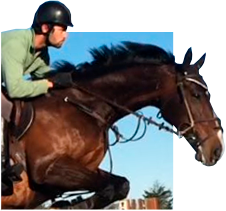
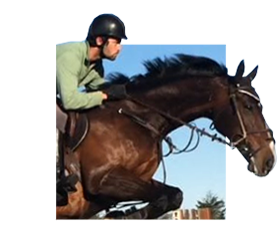
replaced horse photos for centered ones

diff --git a/index.html b/index.html
@@ -68,7 +68,7 @@
     -->
   <section id="Criterios" data-emergence="hidden">
     <h2 class="fade-in">Criterios de selección</h2>
-    <div class="fade-in delay-1">      
+    <div class="fade-in delay-1">
       <ul class="slider">
         <li>
           <img src="./img/criterios/condicion.png" alt="Buena conformación física">
@@ -109,8 +109,8 @@
     <div class="fade-in delay-1">
       <ul class="slider">
         <li>
-          <img class="name" src="./img/caballos/1-Curtis-Blue.svg" alt="E.M. Curtís Blue" style="bottom: 95%">
-          <img class="photo" src="./img/caballos/curtis.png" alt="foto de E.M. Curtís Blue">
+          <img class="name" src="./img/caballos/1-Curtis-Blue.svg" alt="E.M. Curtís Blue" style="bottom: 90%">
+          <img class="photo" src="./img/caballos/Curtis-Blue.png" alt="foto de E.M. Curtís Blue">
           <p class="sans">Nombre: E.M. Curtís Blue <br>
             Edad: 9 años <br>
             Sexo: Macho <br>
@@ -122,7 +122,7 @@
         </li>
         <li>
           <img class="name" src="./img/caballos/2-Rey-Momo.svg" alt="E.M. Rey Momolt=">
-          <img class="photo" src="./img/caballos/momo.png" alt="foto de E.M. Rey Momo" style="transform: translate(-11%,-10%)">
+          <img class="photo" src="./img/caballos/Rey-Momo.png" alt="foto de E.M. Rey Momo">
           <p class="sans">Nombre: E.M. Rey Momo <br>
             Edad: 10 años <br>
             Sexo: Macho <br>
@@ -134,7 +134,7 @@
         </li>
         <li>
           <img class="name" src="./img/caballos/3-Blue-Sea.svg" alt="E.M. Blue Sea">
-          <img class="photo" src="./img/caballos/bluesea.png" alt="foto de E.M. Blue Sea" style="transform: translate(0,-7%)">
+          <img class="photo" src="./img/caballos/Blue-Sea.png" alt="foto de E.M. Blue Sea">
           <p class="sans">Nombre: E.M. Blue Sea <br>
             Edad: 10 años <br>
             Sexo: Macho <br>
@@ -146,7 +146,7 @@
         </li>
         <li>
           <img class="name" src="./img/caballos/4-Dulcinea.svg" alt="E.M. Dulcinea">
-          <img class="photo" src="./img/caballos/dulcinea.png" alt="foto de E.M. Dulcinea" style="transform: translate(0,-7%)">
+          <img class="photo" src="./img/caballos/Dulcinea.png" alt="foto de E.M. Dulcinea">
           <p class="sans">Nombre: E.M. Dulcinea <br>
             Edad: 9 años <br>
             Sexo: Hembra <br>
@@ -158,7 +158,7 @@
         </li>
         <li>
           <img class="name" src="./img/caballos/5-Valentina.svg" alt="E.M. Valentina">
-          <img class="photo" src="./img/caballos/valentina.png" alt="foto de E.M. Valentina" style="transform: translate(-23%,3%)">
+          <img class="photo" src="./img/caballos/Valentina.png" alt="foto de E.M. Valentina">
           <p class="sans">Nombre: E.M. Valentina <br>
             Edad: ? <br>
             Sexo: Hembra <br>
@@ -167,7 +167,7 @@
         </li>
         <li>
           <img class="name" src="./img/caballos/6-Reina-do-carnaval.svg" alt="E.M. R. Do Carnaval">
-          <img class="photo" src="./img/caballos/reina.png" alt="foto de E.M. R. Do Carnaval" style="transform: translate(0,-7%)">
+          <img class="photo" src="./img/caballos/Reina-do-carnaval.png" alt="foto de E.M. R. Do Carnaval">
           <p class="sans">Nombre: E.M. R. Do Carnaval <br>
             Edad: 9 Años <br>
             Sexo: Hembra <br>
@@ -178,7 +178,7 @@
         </li>
         <li>
           <img class="name" src="./img/caballos/7-Alisson.svg" alt="E.M. Alisson">
-          <img class="photo" src="./img/caballos/alisson.png" alt="foto de E.M. Alisson" style="transform: translate(-10%,-7%);">
+          <img class="photo" src="./img/caballos/Allison.png" alt="foto de E.M. Alisson">
           <p class="sans">Nombre: E.M. Alisson <br>
             Edad: 10 Años <br>
             Sexo: Hembra Alazán <br>
@@ -189,7 +189,7 @@
         </li>
         <li>
           <img class="name" src="./img/caballos/8-LanzaPerfume.svg" alt="E.M. Lanza Perfume">
-          <img class="photo" src="./img/caballos/lanzaperfume.png" alt="foto de E.M. Lanza Perfume" style="transform: translate(0,9%)">
+          <img class="photo" src="./img/caballos/Dulce-Perfume.png" alt="foto de E.M. Lanza Perfume">
           <p class="sans">Nombre: E.M. Lanza Perfume <br>
             Edad: 5 Años <br>
             Sexo: Hembra <br>
@@ -199,7 +199,7 @@
         </li>
         <li>
           <img class="name" src="./img/caballos/9-Mamura.svg" alt="E.M. Mamurá">
-          <img class="photo" src="./img/caballos/mamura.png" alt="foto de E.M. Mamurá" style="transform: translate(0,-4%)">
+          <img class="photo" src="./img/caballos/Mamura.png" alt="foto de E.M. Mamurá">
           <p class="sans">Nombre: E.M. Mamurá <br>
             Edad: ? <br>
             Sexo: ? <br>
@@ -222,7 +222,7 @@
     </div>
     <div class="fade-in delay-2">
       <ul id="Imagenes" class="slider">
-        
+
         <li>
           <a onclick="openImage(this);return false" href="#"><img src="./img/uploads/6b5c9185-976b-41ce-8703-98a53a6aaa4e.jpg" alt="Caballo Saltando"></a>
         </li>
@@ -243,7 +243,7 @@
         </li>
       </ul>
       <ul id="Videos" class="slider">
-        
+
         <li>
           <a onclick="openVideo('Cjzb6VKYHi8');return false" href="#"><img src="https://img.youtube.com/vi/Cjzb6VKYHi8/mqdefault.jpg" alt="Curtis Blue"></a>
         </li>

diff --git a/index.template.html b/index.template.html
@@ -68,7 +68,7 @@
     -->
   <section id="Criterios" data-emergence="hidden">
     <h2 class="fade-in">Criterios de selección</h2>
-    <div class="fade-in delay-1">      
+    <div class="fade-in delay-1">
       <ul class="slider">
         <li>
           <img src="./img/criterios/condicion.png" alt="Buena conformación física">
@@ -109,8 +109,8 @@
     <div class="fade-in delay-1">
       <ul class="slider">
         <li>
-          <img class="name" src="./img/caballos/1-Curtis-Blue.svg" alt="E.M. Curtís Blue" style="bottom: 95%">
-          <img class="photo" src="./img/caballos/curtis.png" alt="foto de E.M. Curtís Blue">
+          <img class="name" src="./img/caballos/1-Curtis-Blue.svg" alt="E.M. Curtís Blue" style="bottom: 90%">
+          <img class="photo" src="./img/caballos/Curtis-Blue.png" alt="foto de E.M. Curtís Blue">
           <p class="sans">Nombre: E.M. Curtís Blue <br>
             Edad: 9 años <br>
             Sexo: Macho <br>
@@ -122,7 +122,7 @@
         </li>
         <li>
           <img class="name" src="./img/caballos/2-Rey-Momo.svg" alt="E.M. Rey Momolt=">
-          <img class="photo" src="./img/caballos/momo.png" alt="foto de E.M. Rey Momo" style="transform: translate(-11%,-10%)">
+          <img class="photo" src="./img/caballos/Rey-Momo.png" alt="foto de E.M. Rey Momo">
           <p class="sans">Nombre: E.M. Rey Momo <br>
             Edad: 10 años <br>
             Sexo: Macho <br>
@@ -134,7 +134,7 @@
         </li>
         <li>
           <img class="name" src="./img/caballos/3-Blue-Sea.svg" alt="E.M. Blue Sea">
-          <img class="photo" src="./img/caballos/bluesea.png" alt="foto de E.M. Blue Sea" style="transform: translate(0,-7%)">
+          <img class="photo" src="./img/caballos/Blue-Sea.png" alt="foto de E.M. Blue Sea">
           <p class="sans">Nombre: E.M. Blue Sea <br>
             Edad: 10 años <br>
             Sexo: Macho <br>
@@ -146,7 +146,7 @@
         </li>
         <li>
           <img class="name" src="./img/caballos/4-Dulcinea.svg" alt="E.M. Dulcinea">
-          <img class="photo" src="./img/caballos/dulcinea.png" alt="foto de E.M. Dulcinea" style="transform: translate(0,-7%)">
+          <img class="photo" src="./img/caballos/Dulcinea.png" alt="foto de E.M. Dulcinea">
           <p class="sans">Nombre: E.M. Dulcinea <br>
             Edad: 9 años <br>
             Sexo: Hembra <br>
@@ -158,7 +158,7 @@
         </li>
         <li>
           <img class="name" src="./img/caballos/5-Valentina.svg" alt="E.M. Valentina">
-          <img class="photo" src="./img/caballos/valentina.png" alt="foto de E.M. Valentina" style="transform: translate(-23%,3%)">
+          <img class="photo" src="./img/caballos/Valentina.png" alt="foto de E.M. Valentina">
           <p class="sans">Nombre: E.M. Valentina <br>
             Edad: ? <br>
             Sexo: Hembra <br>
@@ -167,7 +167,7 @@
         </li>
         <li>
           <img class="name" src="./img/caballos/6-Reina-do-carnaval.svg" alt="E.M. R. Do Carnaval">
-          <img class="photo" src="./img/caballos/reina.png" alt="foto de E.M. R. Do Carnaval" style="transform: translate(0,-7%)">
+          <img class="photo" src="./img/caballos/Reina-do-carnaval.png" alt="foto de E.M. R. Do Carnaval">
           <p class="sans">Nombre: E.M. R. Do Carnaval <br>
             Edad: 9 Años <br>
             Sexo: Hembra <br>
@@ -178,7 +178,7 @@
         </li>
         <li>
           <img class="name" src="./img/caballos/7-Alisson.svg" alt="E.M. Alisson">
-          <img class="photo" src="./img/caballos/alisson.png" alt="foto de E.M. Alisson" style="transform: translate(-10%,-7%);">
+          <img class="photo" src="./img/caballos/Allison.png" alt="foto de E.M. Alisson">
           <p class="sans">Nombre: E.M. Alisson <br>
             Edad: 10 Años <br>
             Sexo: Hembra Alazán <br>
@@ -189,7 +189,7 @@
         </li>
         <li>
           <img class="name" src="./img/caballos/8-LanzaPerfume.svg" alt="E.M. Lanza Perfume">
-          <img class="photo" src="./img/caballos/lanzaperfume.png" alt="foto de E.M. Lanza Perfume" style="transform: translate(0,9%)">
+          <img class="photo" src="./img/caballos/Dulce-Perfume.png" alt="foto de E.M. Lanza Perfume">
           <p class="sans">Nombre: E.M. Lanza Perfume <br>
             Edad: 5 Años <br>
             Sexo: Hembra <br>
@@ -199,7 +199,7 @@
         </li>
         <li>
           <img class="name" src="./img/caballos/9-Mamura.svg" alt="E.M. Mamurá">
-          <img class="photo" src="./img/caballos/mamura.png" alt="foto de E.M. Mamurá" style="transform: translate(0,-4%)">
+          <img class="photo" src="./img/caballos/Mamura.png" alt="foto de E.M. Mamurá">
           <p class="sans">Nombre: E.M. Mamurá <br>
             Edad: ? <br>
             Sexo: ? <br>

diff --git a/js/index.js b/js/index.js
@@ -20,7 +20,7 @@ emergence.init();
 const subHome = tns({...sliderOptions, container: '#Home .sub-slider', items: 1, nav: false, mouseDrag: false, nested: 'inner'});
 const home = tns({...sliderOptions, container: '#Home .slider', items: 1, controls: false, mouseDrag: false, autoplay: true, autoplayButtonOutput: false, nested: 'outer'});
 const criterios = tns({...sliderOptions, container: '#Criterios .slider', items: 5, nav: false, loop: false, gutter:30});
-const caballos = tns({...sliderOptions, container: '#Caballos .slider', items: 5, nav: false, loop: false, gutter:60});
+const caballos = tns({...sliderOptions, container: '#Caballos .slider', items: 5, nav: false, loop: false, gutter:0});
 const fotos = tns({...sliderOptions, container: '#Imagenes.slider', items: 5, nav: false, gutter: 20, mouseDrag: false});
 const videos = tns({...sliderOptions, container: '#Videos.slider', items: 5, nav: false, gutter: 20, mouseDrag: false});
 

diff --git a/css/styles.scss b/css/styles.scss
@@ -264,22 +264,22 @@ header{
     li{
       position: relative;
       margin-top: 100px;
-      padding-top: 12vw;
     }
     .name{
       position: absolute;
-      z-index: 1;
-      bottom: 100%;
+      z-index: -1;
+      bottom: 95%;
+      width: 80%;
+      left: 15%;
     }
     .photo{
       z-index: 2;
-      position: absolute;
       max-width: 100%;
       height: auto;
-      top: 0;
     }
     .sans{
       font-size: 0.8rem;
+      padding-left: 20%;
     }
   }
 }
